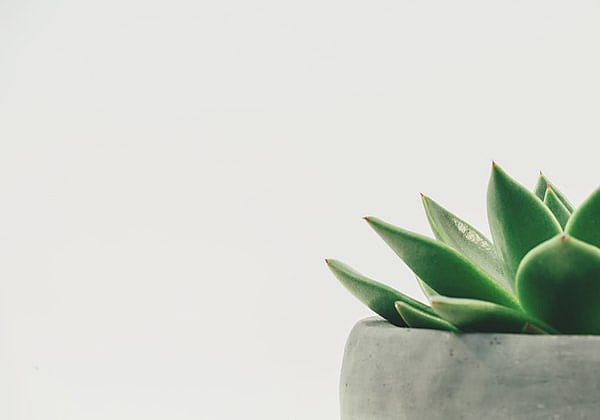
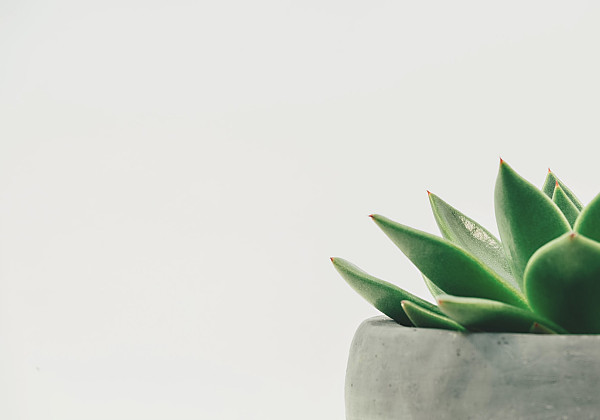
add new themes

diff --git a/haiku-buddy/index.html b/haiku-buddy/index.html
@@ -20,7 +20,7 @@
      main {
          margin: 0 auto;
          height: 100%;
-         max-width: 800px;
+         max-width: 650px;
          display: flex;
          flex-direction: column;
          align-items: center;
@@ -93,7 +93,7 @@
       <div id='bottom-bar'>
         <label for="theme-select">Theme: </label>
         <select id="theme-select"></select>
-        <a id="download-btn" class="button" href="#" download="haiku.png">Download your art</a>
+        <a id="download-btn" class="button" href="#" download="haiku.png">Download your art » </a>
       </div>
     </main>
 
@@ -118,12 +118,14 @@
      })
 
      const themes = {
+         'plant': { src: 'plant.jpg', color: '#27562c' },
          'koi': { src: 'koi.jpg', color: '#f1ecf2' },
-         'plant': { src: 'plant.jpg', color: '#223d2a' },
          'clock': { src: 'clock.jpg', color: '#47423c' },
          'bears': { src: 'bears.jpg', color: '#271d1c' },
          'rip': { src: 'rip.jpg', color: '#fcfaff' },
          'exit': { src: 'exit.jpg', color: '#fcfcff' },
+         'rope': { src: 'rope.jpg', color: 'white' },
+         'hand': { src: 'hand.jpg', color: '#0b0602' },
          'doge': { src: 'doge.jpg', color: '#904e14' },
          'kitty': { src: 'kitty.jpg', color: '#79740e' },
      }
@@ -133,7 +135,7 @@
      setTheme()
 
      function setTheme(themeName) {
-         const { src, color } = themes[themeName] || themes['koi']
+         const { src, color } = themes[themeName] || themes['plant']
          poemBgImg.src = src
          context.fillStyle = color
      }

diff --git a/haiku-buddy/readme.md b/haiku-buddy/readme.md
@@ -21,6 +21,8 @@ Images from [Unsplash](https://unsplash.com) ([fish](https://unsplash.com/photos
 [clock](https://unsplash.com/photos/dhZtNlvNE8M),
 [crosses](https://unsplash.com/photos/4xbLsi16Bw4),
 [exit](https://unsplash.com/photos/Jv0TBnjzYNM),
+[rope](https://unsplash.com/photos/8K6Erb8mrEc),
+[hand](https://unsplash.com/photos/PC_lbSSxCZE),
 [kitty](https://unsplash.com/photos/wg6tsOBbGb0),
 [doge](https://unsplash.com/photos/HpVgq2BIjbw),
 [bears](https://unsplash.com/photos/uB9TMm7R0So))
